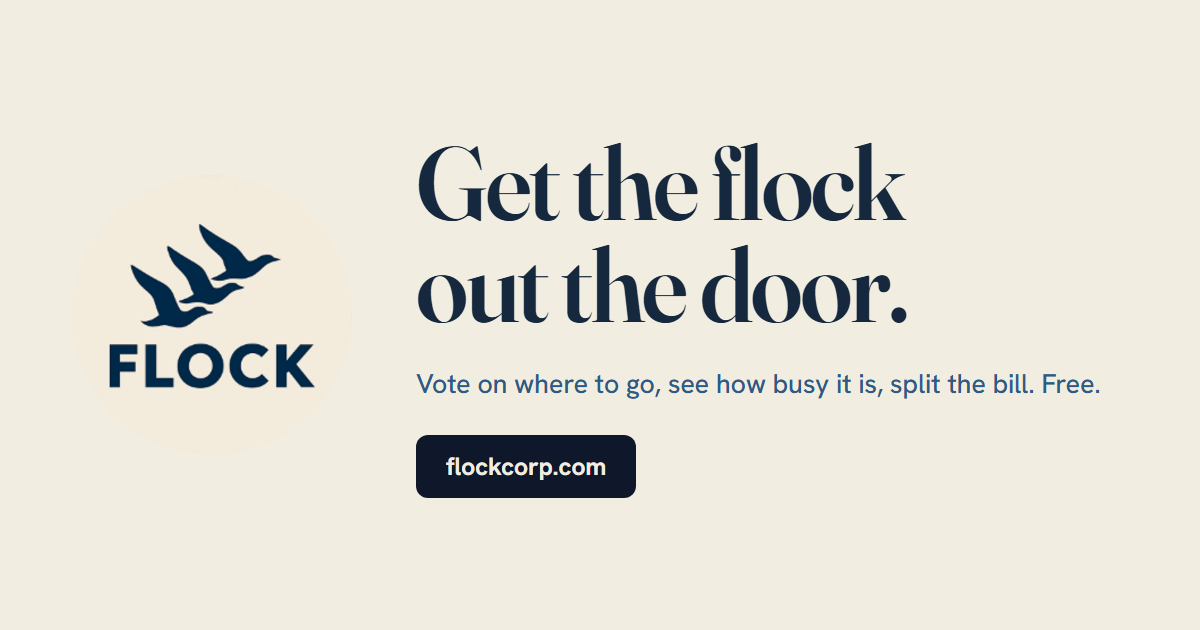
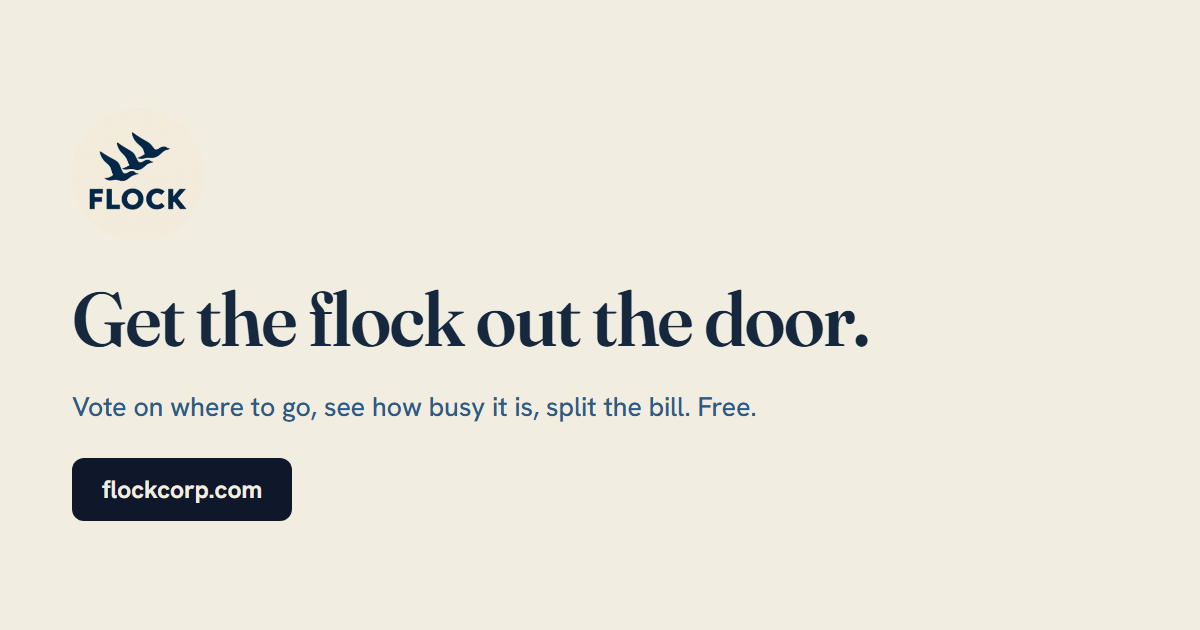
The slogan is one line

diff --git a/frontend/src/__tests__/ogImageCopy.test.js b/frontend/src/__tests__/ogImageCopy.test.js
@@ -33,13 +33,11 @@ const indexHtml = read(path.join(FRONTEND, 'public', 'index.html'));
 const marketingPage = read(path.join(FRONTEND, 'api', 'marketing-page.js'));
 const invitePreview = read(path.join(FRONTEND, 'api', 'invite-preview.js'));
 
-/** The two lines the generator draws, in order. */
+/** The line the generator draws. */
 function bakedHeadline() {
-  const one = generator.match(/const HEADLINE_1 = '([^']+)';/);
-  const two = generator.match(/const HEADLINE_2 = '([^']+)';/);
-  expect(one).not.toBeNull();
-  expect(two).not.toBeNull();
-  return `${one[1]} ${two[1]}`;
+  const m = generator.match(/const HEADLINE = '([^']+)';/);
+  expect(m).not.toBeNull();
+  return m[1];
 }
 
 /** The hero <h1>, flattened to plain text the way a reader sees it. */

diff --git a/frontend/src/website/LandingPage.js b/frontend/src/website/LandingPage.js
@@ -386,7 +386,7 @@ export default function LandingPage() {
           {/* "they happen." is held together: text-wrap balance, pretty and
               auto all break this sentence 4+1 at phone widths and leave
               "happen." alone on line four. */}
-          <h1 id="lp-h-hero">Get the flock<br /><span className="lp-keep">out the door.</span></h1>
+          <h1 id="lp-h-hero">Get the flock <span className="lp-keep">out the door.</span></h1>
           <hr className="lp-hero-rule" aria-hidden="true" />
 
           <div className="lp-hero-copy">
